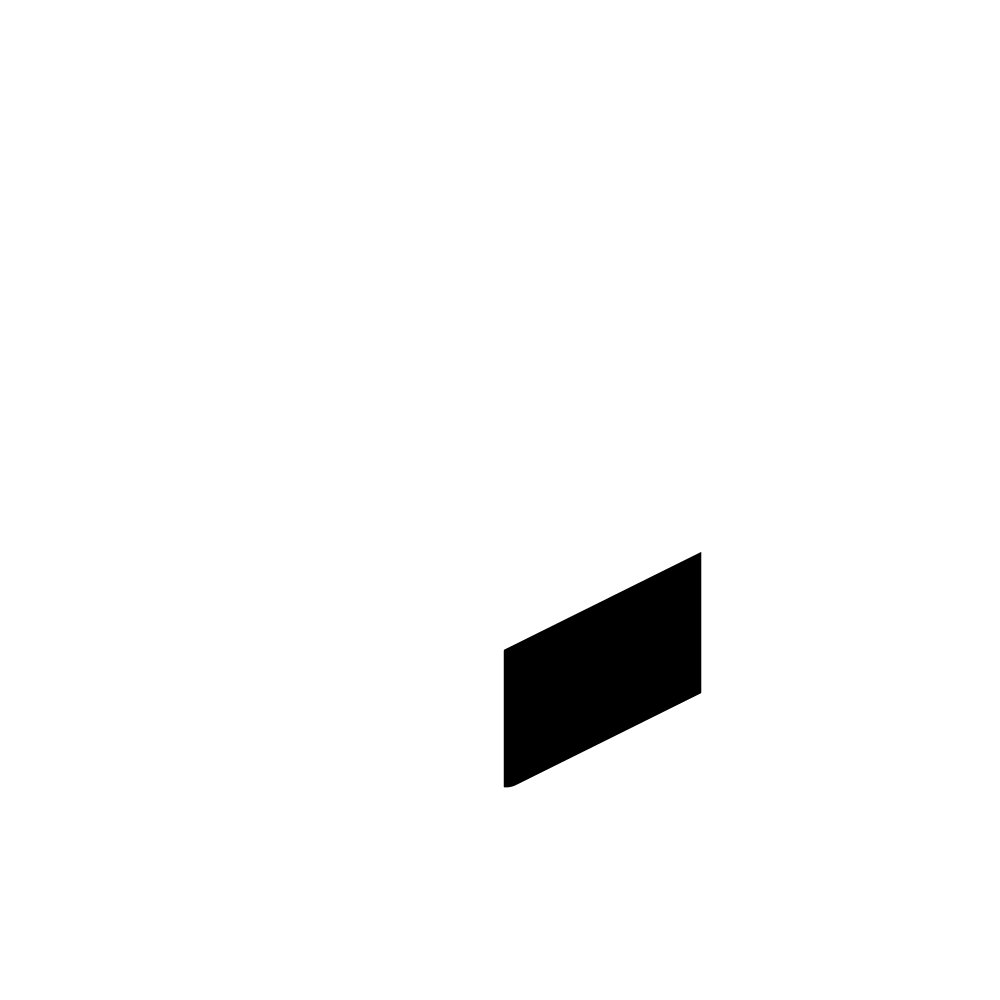
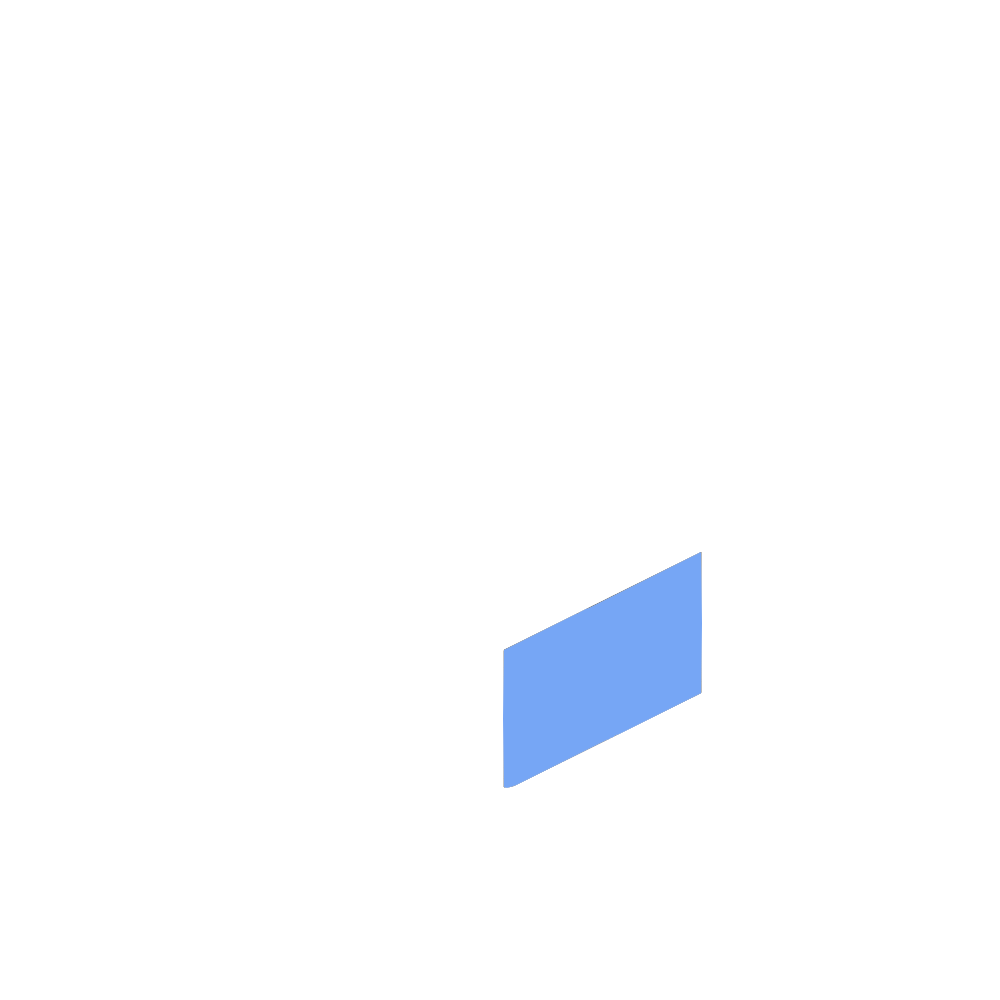
second and third floors

Changed region(s): [[0.496, 0.558, 0.713, 0.806]]

diff --git a/src/pages/index.js b/src/pages/index.js
@@ -1,28 +1,75 @@
 import React, { useState, useEffect } from "react"
 import styles from "./index.module.css";
-import img1 from "../../static/building-anatomy-1.png";
+import img1_1 from "../../static/building-anatomy-1_1.png";
+import img1_2 from "../../static/building-anatomy-1_2.png";
 import img2 from "../../static/building-anatomy-2.png";
 import img3 from "../../static/building-anatomy-3.png";
 import img4 from "../../static/building-anatomy-4.png";
 import img5 from "../../static/building-anatomy-5.png";
 import img6 from "../../static/building-anatomy-6.png";
 import img7 from "../../static/building-anatomy-7.png";
+import img8 from "../../static/building-anatomy-8.png";
+import img9 from "../../static/building-anatomy-9.png";
+import img10 from "../../static/building-anatomy-10.png";
+import img11 from "../../static/building-anatomy-11.png";
+import img12 from "../../static/building-anatomy-12.png";
+import img13 from "../../static/building-anatomy-13.png";
+import img14 from "../../static/building-anatomy-14.png";
+import img15 from "../../static/building-anatomy-15.png";
+import img16 from "../../static/building-anatomy-16.png";
+import img17 from "../../static/building-anatomy-17.png";
 
 export default function Home() {
 
-  const [buttonY, setButtonY] = useState(0);
-  const [buttonX, setButtonX] = useState(0);
-  const handleClick = () => {
-    let floorAnimationY = 20;
-    let floorAnimationX = 20;
-    if (buttonX == 20){
-      floorAnimationX=0;
-      floorAnimationY=0;
+  const [buttonY1, setButtonY1] = useState(1000);
+  const [buttonX1, setButtonX1] = useState(1000);
+  const handleClick1 = () => {
+    let floorAnimationY1 = 0;
+    let floorAnimationX1 = 0;
+    if (buttonX1 == 0){
+      floorAnimationX1=1000;
+      floorAnimationY1=1000;
     }
-    setButtonY(floorAnimationY);
-    setButtonX(floorAnimationX);
+    setButtonY1(floorAnimationY1);
+    setButtonX1(floorAnimationX1);
 };
 
+  const [buttonY2, setButtonY2] = useState(1000);
+  const [buttonX2, setButtonX2] = useState(1000);
+  const handleClick2 = () => {
+    let floorAnimationY2 = 0;
+    let floorAnimationX2 = 0;
+    if (buttonX2 == 0){
+      floorAnimationX2=1000;
+      floorAnimationY2=1000;
+    }
+    setButtonY2(floorAnimationY2);
+    setButtonX2(floorAnimationX2);
+};
+
+  const [buttonY3, setButtonY3] = useState(1000);
+  const [buttonX3, setButtonX3] = useState(1000);
+  const handleClick3 = () => {
+    let floorAnimationY3 = 0;
+    let floorAnimationX3 = 0;
+    if (buttonX3 == 0){
+      floorAnimationX3=1000;
+      floorAnimationY3=1000;
+    }
+    setButtonY3(floorAnimationY3);
+    setButtonX3(floorAnimationX3);
+};
+
+  const clickSecondButton = () =>{
+    handleClick1();
+    handleClick2();
+}
+
+  const clickThirdButton = () =>{
+    handleClick1();
+    handleClick2();
+    handleClick3();
+}
 
   return (
     <div>
@@ -31,21 +78,35 @@ export default function Home() {
 
     <div className={styles.floor}>
       <ul>
-        <li><button onClick={handleClick}><p>1 floor</p></button></li>
-        <li><button><p>2 floor</p></button></li>
-        <li><button><p>3 floor</p></button></li>
+        <li><button onClick={clickThirdButton}><p>3 floor</p></button></li>
+        <li><button onClick={clickSecondButton}><p>2 floor</p></button></li>
+        <li><button onClick={handleClick1}><p>1 floor</p></button></li>
       </ul>
     </div>
 
     <div className={styles.home_image}>
+      <img src={`${img1_2}`} className = {styles.img1} alt="img1"/>
 
-      <img src={`${img2}`} className = {styles.img1} alt="img2"/>
-      <img src={`${img3}`} style = {{transform: `translate(${-buttonX}px, ${-buttonY}px)`}} className = {styles.img1} alt="img3"/>
-      <img src={`${img4}`} style = {{transform: `translate(${buttonX}px, ${-buttonY}px)`}} className = {styles.img1} alt="img4"/>
-      <img src={`${img5}`} style = {{transform: `translate(${buttonX}px, ${buttonY}px)`}} className = {styles.img1} alt="img5"/>
-      <img src={`${img6}`} style = {{transform: `translate(${-buttonX}px, ${buttonY}px)`}} className = {styles.img1} alt="img6"/>
-      <img src={`${img7}`} style = {{transform: `translate(${0}px, ${-buttonY}px)`}}className = {styles.img1} alt="img7"/>
-      <img src={`${img1}`} className = {styles.img1} alt="img1"/>
+      <img src={`${img2}`} style = {{transform: `translate(${0}px, ${buttonY1}px)`}} className = {styles.img1} alt="img2"/>
+      <img src={`${img3}`} style = {{transform: `translate(${-buttonX1}px, ${-buttonY1}px)`}} className = {styles.img1} alt="img3"/>
+      <img src={`${img4}`} style = {{transform: `translate(${buttonX1}px, ${-buttonY1}px)`}} className = {styles.img1} alt="img4"/>
+      <img src={`${img5}`} style = {{transform: `translate(${buttonX1}px, ${buttonY1}px)`}} className = {styles.img1} alt="img5"/>
+      <img src={`${img6}`} style = {{transform: `translate(${-buttonX1}px, ${buttonY1}px)`}} className = {styles.img1} alt="img6"/>
+      <img src={`${img7}`} style = {{transform: `translate(${0}px, ${-buttonY1}px)`, transition: `1s`}}className = {styles.img1} alt="img7"/>
+
+      <img src={`${img8}`} style = {{transform: `translate(${-buttonX2}px, ${-buttonY2}px)`}} className = {styles.img2} alt="img8"/>
+      <img src={`${img9}`} style = {{transform: `translate(${buttonX2}px, ${-buttonY2}px)`}} className = {styles.img2} alt="img9"/>
+      <img src={`${img10}`} style = {{transform: `translate(${buttonX2}px, ${buttonY2}px)`}} className = {styles.img2} alt="img10"/>
+      <img src={`${img11}`} style = {{transform: `translate(${-buttonX2}px, ${buttonY2}px)`}} className = {styles.img2} alt="img11"/>
+      <img src={`${img12}`} style = {{transform: `translate(${0}px, ${-buttonY2}px)`}} className = {styles.img2} alt="img12"/>
+
+      <img src={`${img13}`} style = {{transform: `translate(${-buttonX3}px, ${-buttonY3}px)`}} className = {styles.img3} alt="img13"/>
+      <img src={`${img14}`} style = {{transform: `translate(${buttonX3}px, ${-buttonY3}px)`}} className = {styles.img3} alt="img14"/>
+      <img src={`${img15}`} style = {{transform: `translate(${buttonX3}px, ${buttonY3}px)`}} className = {styles.img3} alt="img15"/>
+      <img src={`${img16}`} style = {{transform: `translate(${-buttonX3}px, ${buttonY3}px)`}} className = {styles.img3} alt="img16"/>
+      <img src={`${img17}`} style = {{transform: `translate(${0}px, ${-buttonY3}px)`}} className = {styles.img3} alt="img17"/>
+
+      <img src={`${img1_1}`} className = {styles.img1} alt="img1"/>
     </div>
 
     <div className={styles.side}>

diff --git a/src/pages/index.module.css b/src/pages/index.module.css
@@ -1,15 +1,19 @@
 @import url('https://fonts.googleapis.com/css2?family=Noto+Sans+KR:wght@700&display=swap');
 
 html{
-  background-color: #FFDA00	;
+  background-color: #000000	;
   font-family: 'Noto Sans KR', sans-serif;
   overflow-y: hidden;
+  overflow-x: hidden;
 }
 
 .header{
   text-align: center;
   font-size: 40px;
   letter-spacing: 7px;
+  color: #ffffff;
+  text-shadow: 1px 1px 1px #000000, 0 0 1em #ff38f8;
+  z-index: 1;
 }
 
 .floor{
@@ -28,7 +32,12 @@ html{
   font-size: 20px;
   border-style: hidden;
   margin: 1px;
-  background-color: #FFDA00	;
+  background-color: #000000	;
+  color: #ffffff;
+}
+
+.floor :hover{
+  text-shadow: 1px 1px 2px black, 0 0 1em #c400e2;
 }
 
 .side{
@@ -47,12 +56,35 @@ html{
   font-size: 20px;
   border-style: hidden;
   margin: 1px;
-  background-color: #FFDA00	;
+  background-color: #000000;
+  color: #ffffff;
+
+}
+
+.side :hover{
+  text-shadow: 1px 1px 2px black, 0 0 1em #c400e2;
 }
 
 .img1{
   position: absolute;
-  transition: 0.5s;
+  transition: 1.2s;
   height: 50vw;
   left: 26.5vw;
+  z-index: 2;
+}
+
+.img2{
+  position: absolute;
+  transition: 1.7s;
+  height: 50vw;
+  left: 26.5vw;
+  z-index: 2;
+}
+
+.img3{
+  position: absolute;
+  transition: 2.3s;
+  height: 50vw;
+  left: 26.5vw;
+  z-index: 2;
 }
